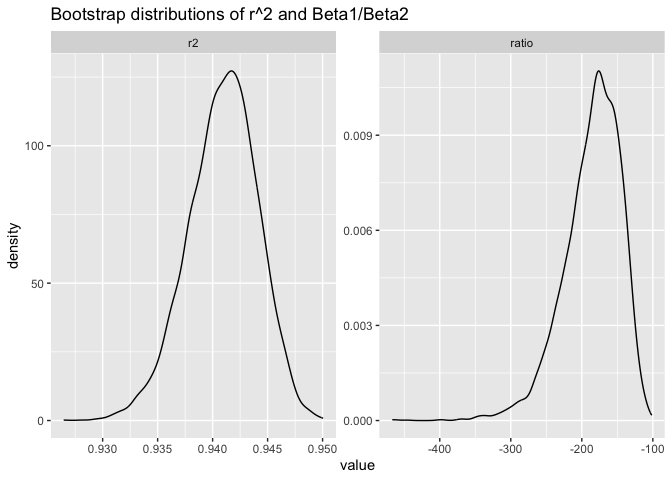
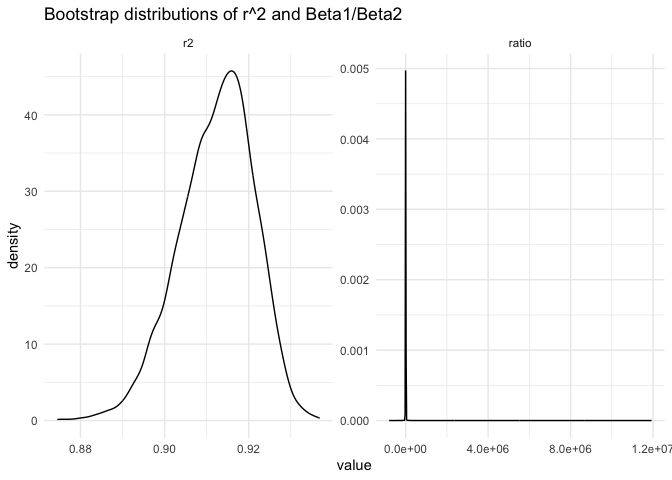
check 12.3

diff --git a/p8105_hw6_xl3054.md b/p8105_hw6_xl3054.md
@@ -43,7 +43,9 @@ homicide = read_csv("data/homicide-data.csv") %>%
     ## ℹ Specify the column types or set `show_col_types = FALSE` to quiet this message.
 
 ``` r
+## for Baltimore
 homicide %>% 
+  filter(city_state == "Baltimore, MD") %>% 
   glm(solved_bin ~ victim_age + victim_sex + victim_race, 
       data = . , family = binomial) %>% 
   broom::tidy(conf.int = TRUE, exponentiate = TRUE) %>% 
@@ -54,7 +56,7 @@ homicide %>%
 
 | term           | estimate | conf.low | conf.high |
 |:---------------|---------:|---------:|----------:|
-| victim_sexMale |   0.6028 |   0.5688 |    0.6388 |
+| victim_sexMale |   0.4255 |   0.3242 |    0.5576 |
 
 ``` r
 ## for each city
@@ -139,6 +141,15 @@ homicide_or %>%
 
 ![](p8105_hw6_xl3054_files/figure-gfm/unnamed-chunk-1-1.png)<!-- -->
 
+This plot shows the adjusted odds ratios for solving homicides involving
+make versus female victims across major US cities. Most estimates are
+around or below 1, and many confidence intervals cross 1, indicating
+that in most cities male-victim homicides are solved slightly lower
+rates than female-victim homicides, and there is not significance
+difference in the odds of solving homicides. Cities like New York, NY,
+encounter significant lower odds of solving homicides for male victims
+compared to female victims.
+
 # Problem 2
 
 ``` r
@@ -149,6 +160,7 @@ set.seed(123)
 
 boot_once = function(data) {
   boot_df = data %>% 
+    filter(name == "CentralPark_NY") %>% 
     sample_frac(size = 1, replace = TRUE)
     fit = lm(tmax ~ tmin + prcp, data = boot_df)
     r2_hat = broom::glance(fit)$r.squared
@@ -166,24 +178,23 @@ boot_res %>%
   ggplot(aes(value)) +
   geom_density() +
   facet_wrap(~name, scales = "free") +
-  labs(title = "Bootstrap distributions of r^2 and Beta1/Beta2")
+  labs(title = "Bootstrap distributions of r^2 and Beta1/Beta2") + 
+  theme_minimal()
 ```
 
 ![](p8105_hw6_xl3054_files/figure-gfm/unnamed-chunk-2-1.png)<!-- -->
 
-The bootstrap distribution of $\hat{r^2}$ is kind of tight and almost
-symmetric, centered around 0.942. This means that the fitted model
+The bootstrap distribution of $\hat{r^2}$ is smooth and almost
+symmetric, centered around 0.915. This means that the fitted model
 consistently explains a large amount of the variation in `tmax`, and the
 estimated $\hat{r^2}$ does not change much across different bootstrap
-samples.
-
-The ratio $\frac{\hat{\beta_1}}{\hat{\beta_2}}$ compares the effect of
-minimum temperature relative to the effect of precipitation. However,
-because the precipitation coefficient is very small and close to zero,
-this ratio becomes very unstable. As a result, the bootstrap
-distribution is wide, heavily skewed, and has a long tail toward large
-negative values. This makes the ratio hard to interpret and less
-reliable than the estimate of $\hat{r^2}$.
+samples. In contrast, the bootstrap distribution of the ratio
+$\frac{\hat{\beta_1}}{\hat{\beta_2}}$ is extremely skewed. Most values
+are around zero, and a very long tail exntends to very large numbers.
+This suggests that ${\hat{\beta_2}}$ is often very close to zero in
+bootstrap samples, causing the ratio to explode and making the statistic
+highly unstable. The coefficient ratio is strongly influenced by
+sampling noise.
 
 ``` r
 ci_r2 = quantile(boot_res$r2, probs = c(0.025, 0.975))
@@ -195,10 +206,10 @@ tibble(parameter = c("r^2", "beta1 / beta2"),
   knitr::kable(digits = 4)
 ```
 
-| parameter     |     lower |     upper |
-|:--------------|----------:|----------:|
-| r^2           |    0.9343 |    0.9466 |
-| beta1 / beta2 | -279.2530 | -125.2792 |
+| parameter     |      lower |     upper |
+|:--------------|-----------:|----------:|
+| r^2           |     0.8933 |    0.9275 |
+| beta1 / beta2 | -5431.7722 | 4837.4254 |
 
 # Problem 3
 
@@ -298,6 +309,10 @@ birthweight %>%
 
 ![](p8105_hw6_xl3054_files/figure-gfm/unnamed-chunk-5-1.png)<!-- -->
 
+The residuals appear roughly centered around zero. A few extreme
+residuals indicate potential outliers that the model does not capture
+well.
+
 ``` r
 # Cross validation
 set.seed(123)
@@ -320,7 +335,7 @@ rmse_calc = function(model, test_df) {
 }
 
 cv_results = cv_models %>%
-  mutate(rmse_new   = map2_dbl(model_prop,   test, rmse_calc),
+  mutate(rmse_new   = map2_dbl(model_prop, test, rmse_calc),
          rmse_main  = map2_dbl(model_main,  test, rmse_calc),
          rmse_int  = map2_dbl(model_int,  test, rmse_calc))
 
@@ -334,3 +349,10 @@ cv_results %>%
     ##   mean_rmse_new mean_rmse_main mean_rmse_int
     ##           <dbl>          <dbl>         <dbl>
     ## 1          276.           331.          288.
+
+Comparing the mean RMSE of three models, the proposed model with
+predictors `babysex`, `bhead`, `blength`, `gaweeks`, `wtgain`,
+`mheight`, `momage`, `mrace`, and `ppbmi` has the lowest average RMSE
+(275.5092), indicating the best predictive performance among the three.
+The interaction model performs slightly worse (average RMSE = 288.3849),
+while the main-effects model has the highest average RMSE (330.7093).
